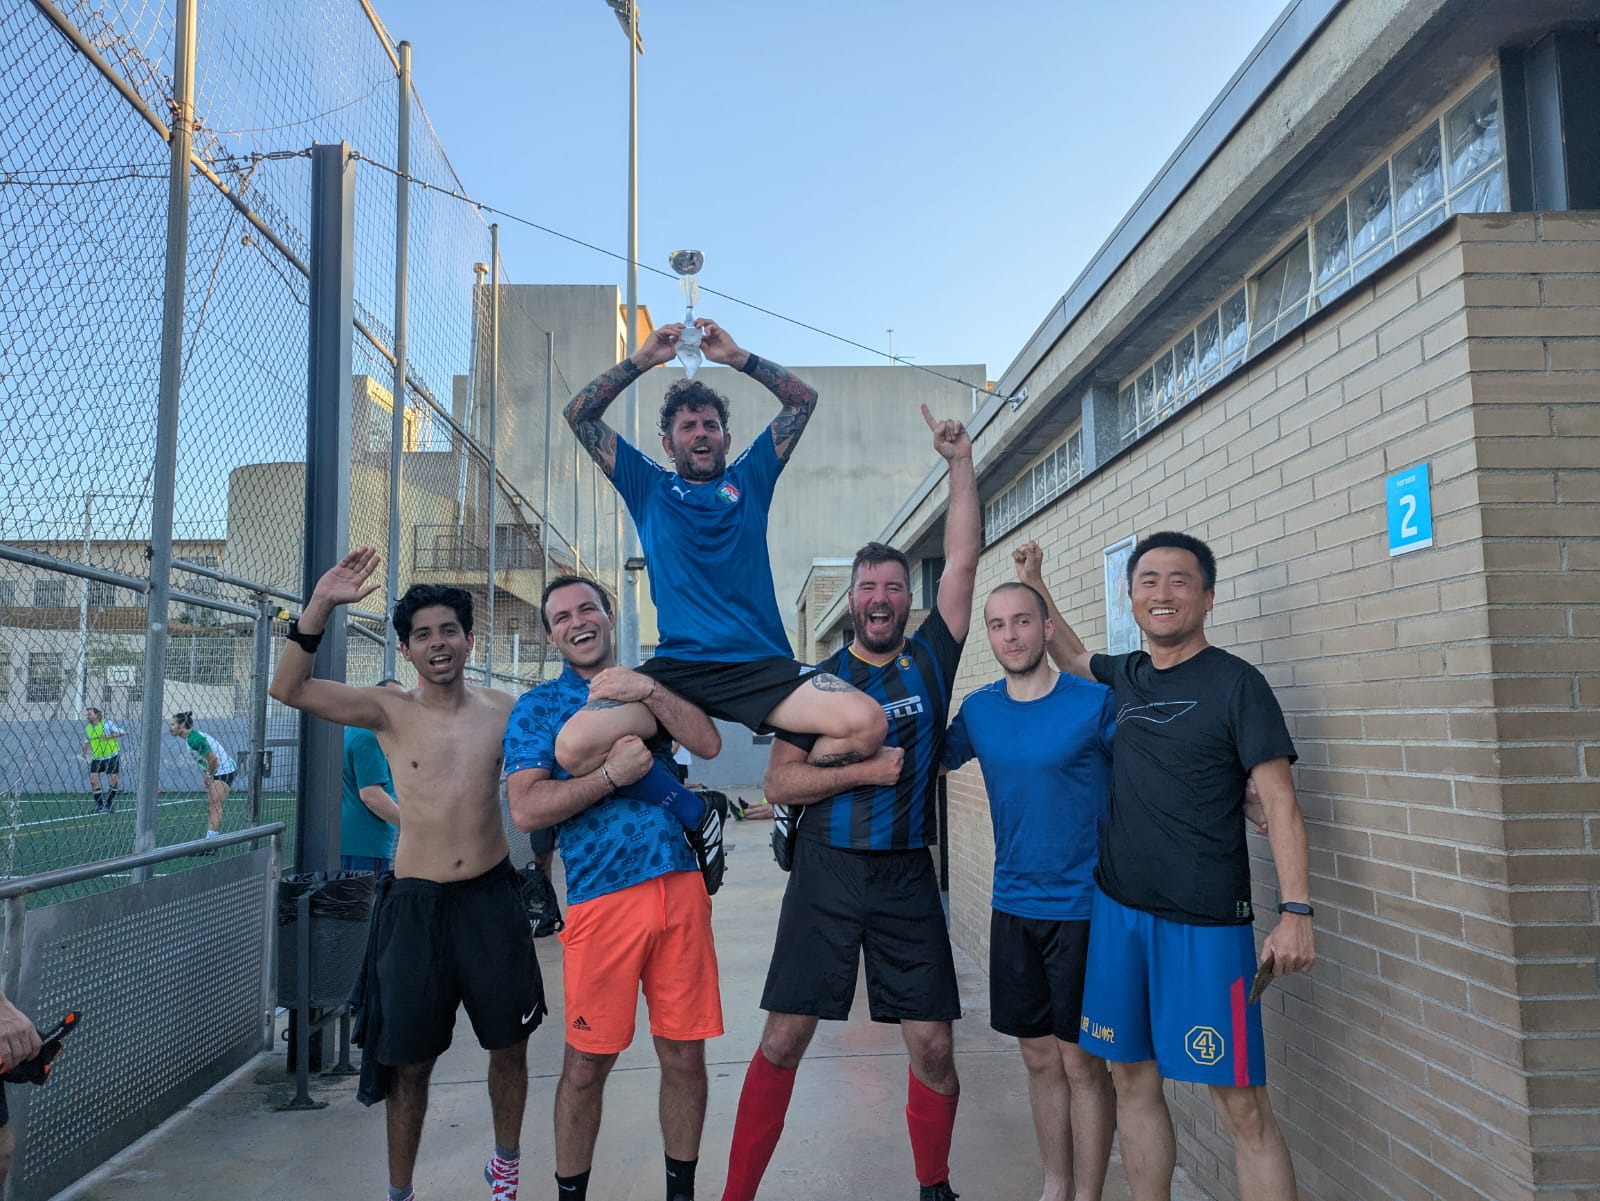
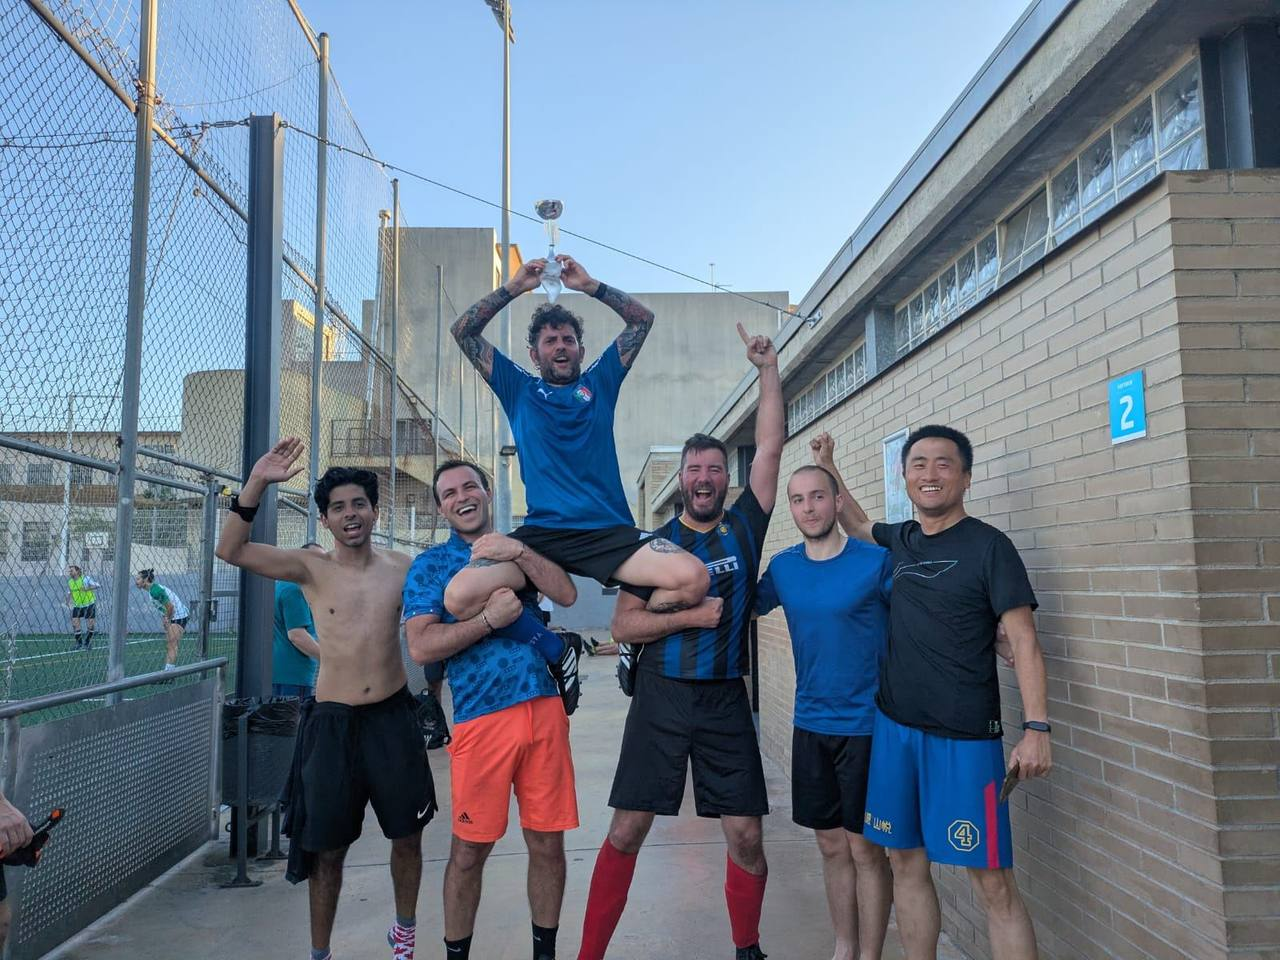
actualizacion visual de la temporada 26-27

Changed region(s): [[0.75, 0.8438, 0.7812, 0.875], [0.125, 0.125, 0.1562, 0.1562]]

diff --git a/index.html b/index.html
@@ -3,64 +3,136 @@
 <head>
   <meta charset="UTF-8">
   <title>SOLAR football</title>
+  <meta name="description" content="Gestión de jugadores, equipos y resultados de Solar Football.">
   <meta name="viewport" content="width=device-width, initial-scale=1">
+  <meta name="theme-color" content="#146138">
+  <link rel="preconnect" href="https://cdn.jsdelivr.net" crossorigin>
+  <link rel="preconnect" href="https://cdnjs.cloudflare.com" crossorigin>
   <link rel="icon" href="favicon.ico" sizes="any">
   <link rel="icon" href="favicon-32x32.png" type="image/png" sizes="32x32">
   <link rel="icon" href="favicon-16x16.png" type="image/png" sizes="16x16">
   <link href="https://cdn.jsdelivr.net/npm/bootstrap@5.3.3/dist/css/bootstrap.min.css" rel="stylesheet">
   <link rel="stylesheet" href="https://cdnjs.cloudflare.com/ajax/libs/font-awesome/6.5.0/css/all.min.css">
   <style>
+    :root {
+      --sf-green: #1f8a4c;
+      --sf-green-dark: #146138;
+      --sf-gold: #ffb703;
+      --sf-bg: #f4f7f5;
+      --sf-surface: #ffffff;
+      --sf-text: #1f2a24;
+      --sf-muted: #66756c;
+      --sf-border: #e4e9e5;
+      --sf-radius: 16px;
+      --sf-shadow: 0 6px 20px rgba(15, 40, 25, .07);
+    }
+
+    body {
+      background: var(--sf-bg);
+      color: var(--sf-text);
+      font-family: -apple-system, BlinkMacSystemFont, "Segoe UI", Roboto, Helvetica, Arial, sans-serif;
+    }
+
+    /* Cabecera */
+    .hero {
+      background: linear-gradient(135deg, var(--sf-green) 0%, var(--sf-green-dark) 100%);
+      border-radius: var(--sf-radius);
+      padding: 1.75rem 1.5rem;
+      color: #fff;
+      box-shadow: var(--sf-shadow);
+      margin-bottom: 1.5rem;
+    }
+    .hero img { border-radius: 50%; background: #fff; padding: 4px; box-shadow: 0 4px 14px rgba(0,0,0,.2); }
+    .hero h1 { font-weight: 800; letter-spacing: -.02em; margin: .5rem 0 0; }
+    .hero #fecha-modificacion { color: rgba(255,255,255,.82) !important; margin: .25rem 0 0; font-size: .92rem; }
+
+    /* Navegación */
+    #tabs { border-bottom: none; gap: .4rem; flex-wrap: wrap; }
+    #tabs .nav-link {
+      border: none; border-radius: 999px; color: var(--sf-text); font-weight: 600;
+      padding: .5rem 1.05rem; font-size: .92rem; transition: background .15s ease, color .15s ease;
+    }
+    #tabs .nav-link:hover { background: #e9f3ec; }
+    #tabs .nav-link.active { background: var(--sf-green); color: #fff; box-shadow: 0 3px 10px rgba(31,138,76,.35); }
+    #tabs .nav-link i { margin-right: .4rem; opacity: .9; }
+
+    .tab-content > .tab-pane { padding-top: .5rem; }
+
+    /* Tabla de jugadores */
+    #tabla-jugadores {
+      background: var(--sf-surface); border-radius: var(--sf-radius); overflow: hidden;
+      box-shadow: var(--sf-shadow); border-collapse: separate; border-spacing: 0;
+    }
+    #tabla-jugadores thead th {
+      background: var(--sf-green-dark); color: #fff; border: none; font-weight: 600;
+      padding: .8rem .6rem; white-space: nowrap;
+    }
+    #tabla-jugadores td { border-color: var(--sf-border); vertical-align: middle; padding: .55rem .6rem; }
+    #tabla-jugadores tbody tr:hover { background: #f0f7f2; }
+
     .valor-rojo { color: #d93025; font-weight: bold; }
     .valor-naranja { color: #f57c00; font-weight: bold; }
-    .valor-amarillo { color: #fbc02d; font-weight: bold; }
-    .valor-verde-claro { color: #7cb342; font-weight: bold; }
-    .valor-verde-oscuro { color: #72a8da; font-weight: bold; }
+    .valor-amarillo { color: #c9971e; font-weight: bold; }
+    .valor-verde-claro { color: #67a04a; font-weight: bold; }
+    .valor-verde-oscuro { color: var(--sf-green); font-weight: bold; }
     .fifa-stars { white-space: nowrap; display: inline-block; min-width: 80px; }
-    .fifa-stars i { color: gold; margin: 0 1px; }
+    .fifa-stars i { color: var(--sf-gold); margin: 0 1px; }
 
     /* Círculos de colores */
-    .circle { width: 15px; height: 15px; border-radius: 50%; display: inline-block; margin-right: 6px; vertical-align: middle; }
+    .circle { width: 15px; height: 15px; border-radius: 50%; display: inline-block; margin-right: 6px; vertical-align: middle; box-shadow: inset 0 0 0 1px rgba(0,0,0,.08); }
     .azul-circle { background-color: #007bff; }
     .rojo-circle { background-color: #dc3545; }
     .verde-circle { background-color: #28a745; }
     .blanco-circle { background-color: #f8f9fa; border: 1px solid #ccc; }
     .naranja-circle { background-color: #fd7e14; }
 
-    th.sortable::after { content: " ⇅"; font-weight: normal; opacity: 0.5; }
-    th.orden-asc::after { content: " ↑"; font-weight: bold; opacity: 1; }
-    th.orden-desc::after { content: " ↓"; font-weight: bold; opacity: 1; }
+    th.sortable { cursor: pointer; }
+    th.sortable::after { content: " ⇅"; font-weight: normal; opacity: 0.6; }
+    th.orden-asc::after { content: " ↑"; font-weight: bold; opacity: 1; color: var(--sf-gold); }
+    th.orden-desc::after { content: " ↓"; font-weight: bold; opacity: 1; color: var(--sf-gold); }
 
-    .player-block { border-radius: 12px; padding: 14px; margin-bottom: 16px; border: 2px solid transparent; }
-    .player-block.habituales { background:#eef5ff; border-color:#cfe2ff; }
-    .player-block.visitors   { background:#fff8e6; border-color:#ffe2a8; }
-    .player-block.hall       { background:#f3ecff; border-color:#dbc9ff; }
+    .player-block { border-radius: var(--sf-radius); padding: 14px; margin-bottom: 16px; border: 1px solid var(--sf-border); background: var(--sf-surface); box-shadow: var(--sf-shadow); }
+    .player-block h5 { font-weight: 700; margin-bottom: .75rem; }
+    .player-block.habituales { border-top: 4px solid #4d8fdb; }
+    .player-block.visitors   { border-top: 4px solid var(--sf-gold); }
+    .player-block.hall       { border-top: 4px solid #9b6bff; }
 
     .player-grid { display: grid; grid-template-columns: repeat(auto-fit, minmax(160px, 1fr)); gap: .5rem .75rem; }
     .player-grid .form-check { min-width: 0; }
     .player-grid .form-check-label { font-size: 1.02rem; font-weight: 500; white-space: normal; overflow-wrap: anywhere; word-break: break-word; }
     @media (max-width: 768px) { .player-grid { grid-template-columns: repeat(auto-fit, minmax(140px, 1fr)); } }
 
-    .equipo-box { border-radius: 14px; padding: 16px; background: #f9f9f9; border: 2px solid #ddd; margin-bottom: 1rem; }
-    .equipo-box h4, .equipo-box h5 { display: flex; align-items: center; gap: 6px; font-weight: 600; }
+    .equipo-box { border-radius: var(--sf-radius); padding: 16px; background: var(--sf-surface); border: 1px solid var(--sf-border); box-shadow: var(--sf-shadow); margin-bottom: 1rem; transition: transform .15s ease, box-shadow .15s ease; }
+    .equipo-box:hover { transform: translateY(-2px); box-shadow: 0 10px 24px rgba(15,40,25,.1); }
+    .equipo-box h4, .equipo-box h5 { display: flex; align-items: center; gap: 6px; font-weight: 700; }
+
+    .card, .ratio { border-radius: var(--sf-radius); overflow: hidden; box-shadow: var(--sf-shadow); border: 1px solid var(--sf-border); }
+
+    .btn-primary { background: var(--sf-green); border-color: var(--sf-green); }
+    .btn-primary:hover, .btn-primary:focus { background: var(--sf-green-dark); border-color: var(--sf-green-dark); }
+    .btn-success { background: var(--sf-gold); border-color: var(--sf-gold); color: #1f2a24; font-weight: 600; }
+    .btn-success:hover, .btn-success:focus { background: #e6a400; border-color: #e6a400; color: #1f2a24; }
+
+    #manual-columns .equipo-box { min-height: 100%; }
   </style>
 </head>
-<body class="bg-light">
+<body>
 <div class="container py-4">
-  <div class="text-center mb-3">
-    <img src="logo-solarfc.jpg" alt="Logo Solar Football" class="img-fluid" style="max-height: 200px;">
+  <div class="hero text-center">
+    <img src="logo-solarfc.jpg" alt="Logo Solar Football" width="120" height="120" style="max-height: 120px; width: 120px; height: 120px; object-fit: cover;">
+    <h1>SOLAR football</h1>
+    <p id="fecha-modificacion">Última actualización: <span></span></p>
   </div>
-  <h1 class="text-center mb-2">SOLAR football</h1>
-  <p class="text-center text-muted" id="fecha-modificacion">Última actualización: <span></span></p>
 
-  <ul class="nav nav-tabs mb-4" id="tabs">
-    <li class="nav-item"><a class="nav-link active" data-bs-toggle="tab" href="#jugadores">Jugadores</a></li>
-    <li class="nav-item"><a class="nav-link" data-bs-toggle="tab" href="#convocatoria">Partido</a></li>
-    <li class="nav-item"><a class="nav-link" data-bs-toggle="tab" href="#torneo">Torneo</a></li>
-    <li class="nav-item"><a class="nav-link" data-bs-toggle="tab" href="#manual">Manual</a></li>
-    <li class="nav-item"><a class="nav-link" data-bs-toggle="tab" href="#asistencia">Asistencia y Resultado</a></li>
-    <li class="nav-item"><a class="nav-link" data-bs-toggle="tab" href="#consejos">Consejos</a></li>
-    <li class="nav-item"><a class="nav-link" data-bs-toggle="tab" href="#fotos">Fotos</a></li>
-    <li class="nav-item"><a class="nav-link" data-bs-toggle="tab" href="#historial">Historial</a></li>
+  <ul class="nav nav-pills mb-4 justify-content-center" id="tabs">
+    <li class="nav-item"><a class="nav-link active" data-bs-toggle="tab" href="#jugadores"><i class="fas fa-users"></i>Jugadores</a></li>
+    <li class="nav-item"><a class="nav-link" data-bs-toggle="tab" href="#convocatoria"><i class="fas fa-people-group"></i>Partido</a></li>
+    <li class="nav-item"><a class="nav-link" data-bs-toggle="tab" href="#torneo"><i class="fas fa-trophy"></i>Torneo</a></li>
+    <li class="nav-item"><a class="nav-link" data-bs-toggle="tab" href="#manual"><i class="fas fa-sliders"></i>Manual</a></li>
+    <li class="nav-item"><a class="nav-link" data-bs-toggle="tab" href="#asistencia"><i class="fas fa-clipboard-check"></i>Asistencia y Resultado</a></li>
+    <li class="nav-item"><a class="nav-link" data-bs-toggle="tab" href="#consejos"><i class="fas fa-lightbulb"></i>Consejos</a></li>
+    <li class="nav-item"><a class="nav-link" data-bs-toggle="tab" href="#fotos"><i class="fas fa-images"></i>Fotos</a></li>
+    <li class="nav-item"><a class="nav-link" data-bs-toggle="tab" href="#historial"><i class="fas fa-clock-rotate-left"></i>Historial</a></li>
   </ul>
 
   <div class="tab-content">
@@ -183,7 +255,7 @@
       <div class="container mt-4">
         <h3 class="text-center mb-4">Consejos para jugar en Solar FC</h3>
         <div class="ratio ratio-16x9">
-          <video controls>
+          <video controls preload="none">
             <source src="SolarFC_tip.mp4" type="video/mp4">
             Tu navegador no soporta la reproducción de video.
           </video>
@@ -197,11 +269,11 @@
         <h3 class="text-center mb-4">Ganadores 5º torneo</h3>
         <div class="row justify-content-center">
           <div class="col-md-6 mb-4">
-            <img src="winner-5th-tournament.jpg" class="img-fluid rounded shadow-sm" alt="Ganador 5º Torneo">
+            <img src="winner-5th-tournament.jpg" class="img-fluid rounded shadow-sm" alt="Ganador 5º Torneo" width="1280" height="960" loading="lazy" decoding="async">
             <p class="text-center mt-2">GANADORES</p>
           </div>
           <div class="col-md-6 mb-4">
-            <img src="players-5th-tournament.jpg" class="img-fluid rounded shadow-sm" alt="Jugadores 5º Torneo">
+            <img src="players-5th-tournament.jpg" class="img-fluid rounded shadow-sm" alt="Jugadores 5º Torneo" width="1600" height="1201" loading="lazy" decoding="async">
             <p class="text-center mt-2">JUGADORES</p>
           </div>
         </div>
